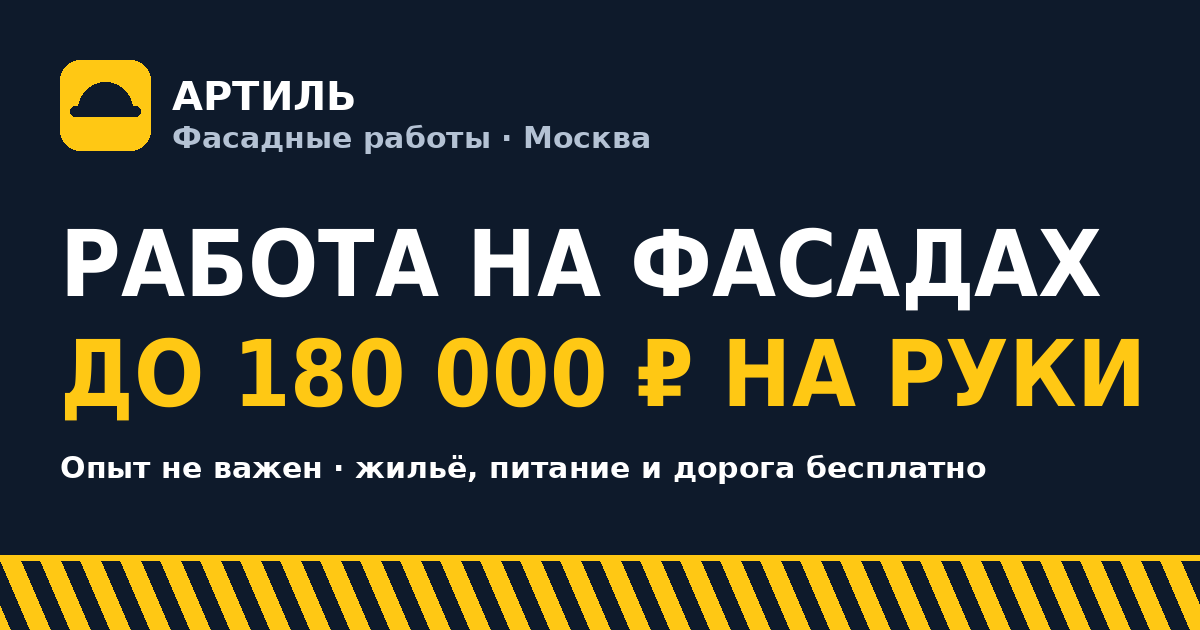
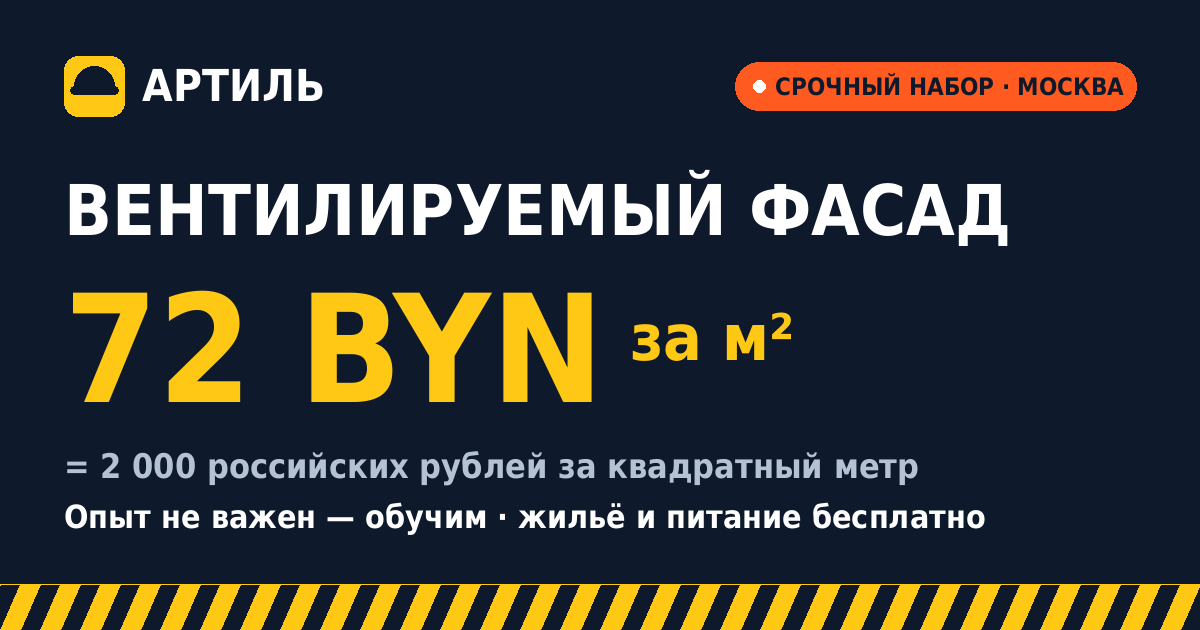
Add files via upload

diff --git a/index.html b/index.html
@@ -9,9 +9,9 @@
 <meta property="og:image" content="og.png">
 <meta property="og:locale" content="ru_RU">
 <title>АртИль — работа на фасадах</title>
-<meta name="description" content="АртИль набирает монтажников вентилируемого фасада, фасадчиков, монтажников лоджий, штукатуров и разнорабочих в Москве. До 180 000 ₽ на руки, опыт не важен, проживание, питание и дорога за счёт компании.">
+<meta name="description" content="АртИль срочно набирает монтажников вентилируемого фасада в Москве: 72 белорусских рубля (2 000 российских) за квадратный метр. Также фасадчики, лоджии, штукатуры, разнорабочие. Опыт не важен, проживание, питание и дорога за счёт компании.">
 <meta name="theme-color" content="#0E1A2B">
-<meta property="og:title" content="Фасадные работы в Москве — до 180 000 ₽ на руки">
+<meta property="og:title" content="Вентилируемый фасад в Москве — 72 BYN за квадратный метр">
 <meta property="og:description" content="Опыт не важен — обучим · проживание и питание бесплатно · дорогу оплачиваем · аванс по запросу">
 <link rel="preconnect" href="https://fonts.googleapis.com">
 <link rel="preconnect" href="https://fonts.gstatic.com" crossorigin>
@@ -86,6 +86,7 @@ section{padding-block:56px}
 @keyframes pulse{50%{opacity:.2;transform:scale(.7)}}
 .hero h1{font-size:clamp(46px,13.6vw,88px);text-transform:uppercase;line-height:.9}
 .hero h1 .y{color:var(--signal);display:block}
+@media (max-width:359px){.btn{font-size:15px;gap:8px;padding:0 12px}.cta-row .btn{padding:0 8px}.btn svg{width:20px;height:20px}.form-actions .btn{white-space:normal;text-align:center;line-height:1.2;padding-block:8px}}
 .money{display:flex;flex-direction:column;gap:2px}
 .money b{font-family:var(--f-display);font-size:clamp(44px,12.5vw,72px);line-height:1;color:var(--signal);font-variant-numeric:tabular-nums;text-shadow:0 0 28px rgba(255,200,20,.35)}
 .money small{font-size:15px;color:var(--muted);font-weight:600}
@@ -110,6 +111,8 @@ section{padding-block:56px}
 @media (max-width:420px){.sticker{width:100px;height:100px}.sticker b{font-size:20px}.sticker small{font-size:11px}}
 @keyframes float{0%,100%{transform:translateY(0) rotate(var(--rot))}50%{transform:translateY(-10px) rotate(var(--rot))}}
 @media (min-width:901px){.sticker{width:140px;height:140px}.sticker b{font-size:30px}.sticker small{font-size:14px}}
+.st-1 b{font-size:18px;white-space:nowrap}
+@media (min-width:901px){.st-1 b{font-size:24px}}
 
 /* tape */
 .tape{position:relative;z-index:2;background:#0B0F17;transform:rotate(-2deg);margin:14px -24px 0;box-shadow:0 12px 26px rgba(0,0,0,.35);overflow:hidden}
@@ -162,6 +165,16 @@ legend{font-weight:700;font-size:15px;margin-bottom:10px;padding:0}
 .calc-out .lbl2{font-family:var(--f-display);font-weight:600;letter-spacing:.12em;font-size:14px;text-transform:uppercase}
 .calc-sum{font-family:var(--f-display);font-weight:700;font-size:clamp(46px,13vw,76px);line-height:1;font-variant-numeric:tabular-nums}
 .calc-note{font-size:14px;font-weight:600;color:var(--ink-2)}
+.range-row{display:flex;align-items:center;gap:14px}
+.range-row output{font-family:var(--f-display);font-weight:700;font-size:28px;color:var(--signal);min-width:78px;text-align:right;font-variant-numeric:tabular-nums}
+.range{-webkit-appearance:none;appearance:none;flex:1;min-width:0;height:44px;background:transparent;cursor:pointer;touch-action:pan-y}
+.range::-webkit-slider-runnable-track{height:10px;border-radius:999px;background:linear-gradient(90deg,var(--signal) var(--p,22%),var(--night-3) var(--p,22%));border:1px solid var(--line)}
+.range::-moz-range-track{height:10px;border-radius:999px;background:var(--night-3);border:1px solid var(--line)}
+.range::-moz-range-progress{height:10px;border-radius:999px;background:var(--signal)}
+.range::-webkit-slider-thumb{-webkit-appearance:none;width:32px;height:32px;margin-top:-12px;border-radius:50%;background:var(--signal);border:4px solid var(--ink);box-shadow:0 0 0 2px var(--signal),0 6px 14px rgba(0,0,0,.4)}
+.range::-moz-range-thumb{width:24px;height:24px;border-radius:50%;background:var(--signal);border:4px solid var(--ink);box-shadow:0 0 0 2px var(--signal)}
+.range:focus-visible{outline:3px solid var(--signal);outline-offset:4px;border-radius:12px}
+.vac-pay .rub{display:block;margin-top:6px;font-family:var(--f-body);font-size:15px;font-weight:800;color:var(--ink)}
 .calc-out .btn{align-self:stretch;background:var(--ink);color:var(--signal);margin-top:6px}
 @media (min-width:801px){.calc-out .btn{align-self:flex-start}}
 
@@ -293,8 +306,8 @@ footer{padding-block:28px 24px}
     <div class="wrap hero-grid">
       <div class="hero-copy">
         <span class="urgent"><i></i>СРОЧНЫЙ НАБОР · МОСКВА</span>
-        <h1>Работа на фасадах <span class="y">в Москве</span></h1>
-        <div class="money"><b data-count="180000" data-prefix="до " data-suffix=" ₽">до 180 000 ₽</b><small>в месяц на руки · разнорабочим 4 000 ₽ в день</small></div>
+        <h1>Вентилируемый фасад <span class="y">в Москве</span></h1>
+        <div class="money"><b data-count="72" data-suffix=" BYN за м²">72 BYN за м²</b><small>это 2 000 российских рублей за квадратный метр · другие профессии — от 5 000 BYN в месяц</small></div>
         <div class="chips">
           <span class="chip"><svg viewBox="0 0 24 24" fill="none" stroke="currentColor" stroke-width="2.4" stroke-linecap="round" stroke-linejoin="round" aria-hidden="true"><path d="M5 12.5l4.5 4.5L19 7.5"/></svg>Опыт не важен — обучим</span>
           <span class="chip"><svg viewBox="0 0 24 24" fill="none" stroke="currentColor" stroke-width="2.4" stroke-linecap="round" stroke-linejoin="round" aria-hidden="true"><path d="M5 12.5l4.5 4.5L19 7.5"/></svg>Жильё и питание бесплатно</span>
@@ -308,11 +321,11 @@ footer{padding-block:28px 24px}
       </div>
       <div class="hero-art">
         <img src="scene.svg" width="1080" height="610" alt="Дом в разрезе: фасадчики в люльке монтируют вентилируемый фасад, внутри по этажам идут отделочные работы" fetchpriority="high">
-        <div class="sticker st-1" aria-hidden="true"><small>ПРИВЕДИ<br>ДРУГА</small><b>+5 000 ₽</b><em>за каждого</em></div>
+        <div class="sticker st-1" aria-hidden="true"><small>ПРИВЕДИ<br>ДРУГА</small><b>+180 BYN</b><em>за каждого</em></div>
         <div class="sticker st-2" aria-hidden="true"><small>ОПЫТ<br>НЕ ВАЖЕН</small><b>ОБУЧИМ</b></div>
       </div>
     </div>
-    <div class="tape" aria-hidden="true"><div class="tape-track" id="tape"><div class="tape-group"><span>ОПЫТ НЕ ВАЖЕН — ОБУЧИМ</span><span>ПРОЖИВАНИЕ БЕСПЛАТНО</span><span>ТРЁХРАЗОВОЕ ПИТАНИЕ</span><span>ДОРОГУ ОПЛАЧИВАЕМ</span><span>АВАНС ПО ЗАПРОСУ</span><span>ПРИВЕДИ ДРУГА — 5 000 ₽</span></div><div class="tape-group"><span>ОПЫТ НЕ ВАЖЕН — ОБУЧИМ</span><span>ПРОЖИВАНИЕ БЕСПЛАТНО</span><span>ТРЁХРАЗОВОЕ ПИТАНИЕ</span><span>ДОРОГУ ОПЛАЧИВАЕМ</span><span>АВАНС ПО ЗАПРОСУ</span><span>ПРИВЕДИ ДРУГА — 5 000 ₽</span></div></div></div>
+    <div class="tape" aria-hidden="true"><div class="tape-track" id="tape"><div class="tape-group"><span>ОПЫТ НЕ ВАЖЕН — ОБУЧИМ</span><span>ВЕНТИЛИРУЕМЫЙ ФАСАД — 72 BYN ЗА М²</span><span>ПРОЖИВАНИЕ БЕСПЛАТНО</span><span>ТРЁХРАЗОВОЕ ПИТАНИЕ</span><span>ДОРОГУ ОПЛАЧИВАЕМ</span><span>АВАНС ПО ЗАПРОСУ</span><span>ПРИВЕДИ ДРУГА — 180 BYN</span></div><div class="tape-group"><span>ОПЫТ НЕ ВАЖЕН — ОБУЧИМ</span><span>ВЕНТИЛИРУЕМЫЙ ФАСАД — 72 BYN ЗА М²</span><span>ПРОЖИВАНИЕ БЕСПЛАТНО</span><span>ТРЁХРАЗОВОЕ ПИТАНИЕ</span><span>ДОРОГУ ОПЛАЧИВАЕМ</span><span>АВАНС ПО ЗАПРОСУ</span><span>ПРИВЕДИ ДРУГА — 180 BYN</span></div></div></div>
   </section>
 
   <section id="vacancies">
@@ -320,41 +333,41 @@ footer{padding-block:28px 24px}
       <div class="sec-head rv">
         <span class="eyebrow">Кого ищем</span>
         <h2>Вакансии и зарплаты</h2>
-        <p class="lead">Суммы на руки. Листайте карточки →</p>
+        <p class="lead">Суммы на руки, в белорусских рублях. Листайте карточки →</p>
       </div>
       <div class="rail" id="rail">
         <article class="vac top-pay tilt">
-          <div class="vac-head"><span class="vac-ico"><svg viewBox="0 0 24 24" fill="none" stroke="#FFC814" stroke-width="2" stroke-linejoin="round" aria-hidden="true"><rect x="3" y="3" width="18" height="18"/><path d="M3 9h18M3 15h18M9 3v18M15 3v18"/></svg></span><span class="vac-tag">Топ ставка</span></div>
+          <div class="vac-head"><span class="vac-ico"><svg viewBox="0 0 24 24" fill="none" stroke="#FFC814" stroke-width="2" stroke-linejoin="round" aria-hidden="true"><rect x="3" y="3" width="18" height="18"/><path d="M3 9h18M3 15h18M9 3v18M15 3v18"/></svg></span><span class="vac-tag">Срочно</span></div>
           <h3>Монтажник вентилируемого фасада</h3>
-          <div class="vac-pay"><span data-rate="vent">от 180 000 ₽</span><small>в месяц на руки</small></div>
+          <div class="vac-pay"><span data-m2>72 BYN</span><small>за квадратный метр</small><span class="rub">= 2 000 российских рублей за м²</span></div>
           <ul><li>Монтаж металлической подсистемы</li><li>Утеплитель и ветрозащита</li><li>Монтаж фасадных панелей</li></ul>
           <a class="btn btn-wa" data-wa="Здравствуйте! ХОЧУ НА ВЕНТФАСАД. Опыт: " href="#apply">Откликнуться</a>
         </article>
         <article class="vac top-pay tilt">
           <div class="vac-head"><span class="vac-ico"><svg viewBox="0 0 24 24" fill="none" stroke="#FFC814" stroke-width="2" stroke-linejoin="round" aria-hidden="true"><path d="M4 4h16v16H4z"/><path d="M8 4v16M4 9h4M4 14h4M12 8h5M12 12h5M12 16h5"/></svg></span><span class="vac-tag">Топ ставка</span></div>
           <h3>Фасадчик на утепление</h3>
-          <div class="vac-pay"><span data-rate="uteplenie">от 180 000 ₽</span><small>в месяц на руки</small></div>
+          <div class="vac-pay"><span data-rate="uteplenie">от 6 400 BYN</span><small>в месяц на руки</small></div>
           <ul><li>Плиты минеральной ваты</li><li>Армирующий слой с сеткой</li><li>Декоративная штукатурка и покраска</li></ul>
           <a class="btn btn-wa" data-wa="Здравствуйте! ХОЧУ НА ФАСАД (утепление). Опыт: " href="#apply">Откликнуться</a>
         </article>
         <article class="vac tilt">
           <div class="vac-head"><span class="vac-ico"><svg viewBox="0 0 24 24" fill="none" stroke="#FFC814" stroke-width="2" stroke-linecap="round" stroke-linejoin="round" aria-hidden="true"><path d="M3 21V9h18v12"/><path d="M3 15h18"/><path d="M7 15v6M12 15v6M17 15v6"/><path d="M6 9V5h12v4"/></svg></span></div>
           <h3>Монтажник фасада лоджий</h3>
-          <div class="vac-pay"><span data-rate="lodzhii">от 160 000 ₽</span><small>в месяц на руки</small></div>
+          <div class="vac-pay"><span data-rate="lodzhii">от 5 700 BYN</span><small>в месяц на руки</small></div>
           <ul><li>Металлический каркас стены лоджии — без сварки</li><li>Потолки: бетоноконтакт, шпаклёвка, фасадная краска</li></ul>
           <a class="btn btn-wa" data-wa="Здравствуйте! ХОЧУ НА ЛОДЖИИ. Опыт: " href="#apply">Откликнуться</a>
         </article>
         <article class="vac tilt">
           <div class="vac-head"><span class="vac-ico"><svg viewBox="0 0 24 24" fill="none" stroke="#FFC814" stroke-width="2" stroke-linecap="round" stroke-linejoin="round" aria-hidden="true"><path d="M4 15l9-9 5 5-9 9H4z"/><path d="M13 6l2-2 5 5-2 2"/></svg></span></div>
           <h3>Штукатур</h3>
-          <div class="vac-pay"><span data-rate="shtuk">от 140 000 ₽</span><small>в месяц на руки</small></div>
+          <div class="vac-pay"><span data-rate="shtuk">от 5 000 BYN</span><small>в месяц на руки</small></div>
           <ul><li>Машинная и ручная штукатурка</li><li>Ровные плоскости по маякам</li></ul>
           <a class="btn btn-wa" data-wa="Здравствуйте! ХОЧУ ШТУКАТУРОМ. Опыт: " href="#apply">Откликнуться</a>
         </article>
         <article class="vac tilt">
           <div class="vac-head"><span class="vac-ico"><svg viewBox="0 0 24 24" fill="none" stroke="#FFC814" stroke-width="2" stroke-linecap="round" stroke-linejoin="round" aria-hidden="true"><path d="M3 20h18"/><path d="M6 20V10l6-6 6 6v10"/><path d="M10 20v-5h4v5"/></svg></span><span class="vac-tag" style="background:var(--signal);color:var(--ink)">Без опыта</span></div>
           <h3>Разнорабочий</h3>
-          <div class="vac-pay"><span data-daily>4 000 ₽</span><small>в день · 120 000 ₽ за 30 рабочих дней</small></div>
+          <div class="vac-pay"><span data-daily>140 BYN</span><small data-daily30>в день · 4 200 BYN за 30 рабочих дней</small></div>
           <ul><li>Подсобные работы, подача материала</li><li>Можно вырасти до мастера</li></ul>
           <a class="btn btn-wa" data-wa="Здравствуйте! ХОЧУ РАЗНОРАБОЧИМ." href="#apply">Откликнуться</a>
         </article>
@@ -395,10 +408,18 @@ footer{padding-block:28px 24px}
             </div>
             <p class="calc-hint">Вахты 60/20, 30/15, 15/8 · москвичам 5–6 дней в неделю</p>
           </fieldset>
+          <fieldset id="m2-box">
+            <legend>Сколько квадратных метров в смену</legend>
+            <div class="range-row">
+              <input class="range" type="range" id="m2" min="1" max="10" step="1" value="3" aria-describedby="m2-out">
+              <output id="m2-out" for="m2">3 м²</output>
+            </div>
+            <p class="calc-hint">Оплата за каждый смонтированный квадратный метр: 72 BYN (2 000 российских рублей)</p>
+          </fieldset>
         </div>
         <div class="calc-out" aria-live="polite">
           <span class="lbl2">Вы получите на руки</span>
-          <span class="calc-sum" id="calc-sum">от 360 000 ₽</span>
+          <span class="calc-sum" id="calc-sum">12 960 BYN</span>
           <p class="calc-note" id="calc-note">За 60 рабочих дней. Жильё, питание и дорога — за счёт компании, эти деньги остаются у вас.</p>
           <a class="btn" id="calc-cta" href="#apply">Хочу на эту вахту</a>
         </div>
@@ -422,10 +443,10 @@ footer{padding-block:28px 24px}
         <div class="phone-wrap">
           <div class="phone" role="img" aria-label="Пример экрана приложения: заработок за месяц, смены, аванс и бонус за друга">
             <div class="screen">
-              <div class="scr-top"><small>Привет, Алексей · октябрь</small><span style="font-size:12px;font-weight:600">Заработано на руки</span><span class="sum">142 800 ₽</span><div class="bar"><i></i></div><small style="margin-top:6px">22 из 30 смен вахты</small></div>
+              <div class="scr-top"><small>Привет, Алексей · октябрь</small><span style="font-size:12px;font-weight:600">Заработано на руки</span><span class="sum">5 150 BYN</span><div class="bar"><i></i></div><small style="margin-top:6px">22 из 30 смен вахты</small></div>
               <div class="scr-row"><span>Отработано</span><b>22 смены · 220 ч</b></div>
-              <div class="scr-row"><span>Аванс 12 октября</span><b>−20 000 ₽</b></div>
-              <div class="scr-row"><span>Бонус за друга</span><b class="pos">+5 000 ₽</b></div>
+              <div class="scr-row"><span>Аванс 12 октября</span><b>−700 BYN</b></div>
+              <div class="scr-row"><span>Бонус за друга</span><b class="pos">+180 BYN</b></div>
                             <div class="scr-btn">Запросить аванс</div>
             </div>
           </div>
@@ -441,7 +462,7 @@ footer{padding-block:28px 24px}
         <span class="eyebrow">Что мы даём</span>
         <h2>Условия</h2>
       </div>
-      <div class="tiles"><div class="tile"><span class="t-ico"><svg viewBox="0 0 24 24" fill="none" stroke="#0E1A2B" stroke-width="2" stroke-linecap="round" stroke-linejoin="round" aria-hidden="true"><path d="M2 9l10-5 10 5-10 5z"/><path d="M6 11v5c0 1.5 3 3 6 3s6-1.5 6-3v-5"/></svg></span><b>Обучим с нуля</b><span>и удостоверение</span></div><div class="tile"><span class="t-ico"><svg viewBox="0 0 24 24" fill="none" stroke="#0E1A2B" stroke-width="2" stroke-linecap="round" stroke-linejoin="round" aria-hidden="true"><path d="M3 11l9-7 9 7"/><path d="M5 10v10h14V10"/><path d="M10 20v-6h4v6"/></svg></span><b>Проживание</b><span>бесплатно</span></div><div class="tile"><span class="t-ico"><svg viewBox="0 0 24 24" fill="none" stroke="#0E1A2B" stroke-width="2" stroke-linecap="round" stroke-linejoin="round" aria-hidden="true"><path d="M4 3v8a3 3 0 0 0 6 0V3"/><path d="M7 3v18"/><path d="M17 3c-2 0-3 3-3 6s1 4 3 4v8"/></svg></span><b>Питание</b><span>3 раза в день</span></div><div class="tile"><span class="t-ico"><svg viewBox="0 0 24 24" fill="none" stroke="#0E1A2B" stroke-width="2" stroke-linecap="round" stroke-linejoin="round" aria-hidden="true"><path d="M3 7h18v3a2 2 0 0 0 0 4v3H3v-3a2 2 0 0 0 0-4z"/><path d="M14 7v2M14 11v2M14 15v2"/></svg></span><b>Дорога</b><span>за наш счёт</span></div><div class="tile"><span class="t-ico"><svg viewBox="0 0 24 24" fill="none" stroke="#0E1A2B" stroke-width="2" stroke-linecap="round" stroke-linejoin="round" aria-hidden="true"><path d="M8 3l4 2 4-2 4 4-3 3v11H7V10L4 7z"/></svg></span><b>Спецодежда</b><span>выдаём</span></div><div class="tile"><span class="t-ico"><svg viewBox="0 0 24 24" fill="none" stroke="#0E1A2B" stroke-width="2" stroke-linecap="round" stroke-linejoin="round" aria-hidden="true"><rect x="2" y="6" width="20" height="13" rx="2"/><circle cx="12" cy="12.5" r="3"/></svg></span><b>Аванс</b><span>по запросу</span></div><div class="tile"><span class="t-ico"><svg viewBox="0 0 24 24" fill="none" stroke="#0E1A2B" stroke-width="2" stroke-linecap="round" stroke-linejoin="round" aria-hidden="true"><rect x="3" y="4" width="18" height="17" rx="2"/><path d="M3 9h18M8 2v4M16 2v4"/></svg></span><b>Вахта</b><span>60/20 · 30/15 · 15/8</span></div><div class="tile"><span class="t-ico"><svg viewBox="0 0 24 24" fill="none" stroke="#0E1A2B" stroke-width="2" stroke-linecap="round" stroke-linejoin="round" aria-hidden="true"><circle cx="9" cy="8" r="3"/><path d="M3 20c0-3.3 2.7-6 6-6s6 2.7 6 6"/><path d="M16 11h6M19 8v6"/></svg></span><b>+5 000 ₽</b><span>за друга</span></div></div>
+      <div class="tiles"><div class="tile"><span class="t-ico"><svg viewBox="0 0 24 24" fill="none" stroke="#0E1A2B" stroke-width="2" stroke-linecap="round" stroke-linejoin="round" aria-hidden="true"><path d="M2 9l10-5 10 5-10 5z"/><path d="M6 11v5c0 1.5 3 3 6 3s6-1.5 6-3v-5"/></svg></span><b>Обучим с нуля</b><span>и удостоверение</span></div><div class="tile"><span class="t-ico"><svg viewBox="0 0 24 24" fill="none" stroke="#0E1A2B" stroke-width="2" stroke-linecap="round" stroke-linejoin="round" aria-hidden="true"><path d="M3 11l9-7 9 7"/><path d="M5 10v10h14V10"/><path d="M10 20v-6h4v6"/></svg></span><b>Проживание</b><span>бесплатно, в вагончиках</span></div><div class="tile"><span class="t-ico"><svg viewBox="0 0 24 24" fill="none" stroke="#0E1A2B" stroke-width="2" stroke-linecap="round" stroke-linejoin="round" aria-hidden="true"><path d="M4 3v8a3 3 0 0 0 6 0V3"/><path d="M7 3v18"/><path d="M17 3c-2 0-3 3-3 6s1 4 3 4v8"/></svg></span><b>Питание</b><span>3 раза в день</span></div><div class="tile"><span class="t-ico"><svg viewBox="0 0 24 24" fill="none" stroke="#0E1A2B" stroke-width="2" stroke-linecap="round" stroke-linejoin="round" aria-hidden="true"><path d="M3 7h18v3a2 2 0 0 0 0 4v3H3v-3a2 2 0 0 0 0-4z"/><path d="M14 7v2M14 11v2M14 15v2"/></svg></span><b>Дорога</b><span>за наш счёт</span></div><div class="tile"><span class="t-ico"><svg viewBox="0 0 24 24" fill="none" stroke="#0E1A2B" stroke-width="2" stroke-linecap="round" stroke-linejoin="round" aria-hidden="true"><path d="M8 3l4 2 4-2 4 4-3 3v11H7V10L4 7z"/></svg></span><b>Спецодежда</b><span>выдаём</span></div><div class="tile"><span class="t-ico"><svg viewBox="0 0 24 24" fill="none" stroke="#0E1A2B" stroke-width="2" stroke-linecap="round" stroke-linejoin="round" aria-hidden="true"><rect x="2" y="6" width="20" height="13" rx="2"/><circle cx="12" cy="12.5" r="3"/></svg></span><b>Аванс</b><span>по запросу</span></div><div class="tile"><span class="t-ico"><svg viewBox="0 0 24 24" fill="none" stroke="#0E1A2B" stroke-width="2" stroke-linecap="round" stroke-linejoin="round" aria-hidden="true"><rect x="3" y="4" width="18" height="17" rx="2"/><path d="M3 9h18M8 2v4M16 2v4"/></svg></span><b>Вахта</b><span>60/20 · 30/15 · 15/8</span></div><div class="tile"><span class="t-ico"><svg viewBox="0 0 24 24" fill="none" stroke="#0E1A2B" stroke-width="2" stroke-linecap="round" stroke-linejoin="round" aria-hidden="true"><circle cx="9" cy="8" r="3"/><path d="M3 20c0-3.3 2.7-6 6-6s6 2.7 6 6"/><path d="M16 11h6M19 8v6"/></svg></span><b>+180 BYN</b><span>за друга</span></div></div>
     </div>
   </section>
 
@@ -503,11 +524,12 @@ footer{padding-block:28px 24px}
         <h2>Ответы до переписки</h2>
       </div>
       <div class="faq">
-        <details><summary>Нужен ли опыт?</summary><p>Нет. Обучим прямо на объекте и поможем получить удостоверение по профессии. Без опыта можно начать разнорабочим — 4 000 рублей в день — и вырасти до мастера.</p></details>
+        <details><summary>Нужен ли опыт?</summary><p>Нет. Обучим прямо на объекте и поможем получить удостоверение по профессии. Без опыта можно начать разнорабочим — 140 белорусских рублей в день — и вырасти до мастера.</p></details>
         <details><summary>Как получить аванс?</summary><p>Аванс выдаём по вашему запросу. Каждый аванс сразу виден в приложении вместе с заработком и бонусами.</p></details>
-        <details><summary>Где жить на вахте?</summary><p>Проживание бесплатное, за счёт компании. Перед выездом пришлём фото жилья.</p></details>
+        <details><summary>Где жить на вахте?</summary><p>Бесплатно, в вагончиках, за счёт компании. Перед выездом пришлём фото.</p></details>
         <details><summary>Кто платит за дорогу?</summary><p>Компания. Дорогу до объекта оплачиваем, спецодежду выдаём.</p></details>
         <details><summary>Какие нужны документы?</summary><p>Паспорт, СНИЛС и ИНН. Иностранным гражданам — документы на право работы в России; список уточните у Евгении.</p></details>
+        <details><summary>В какой валюте указаны суммы?</summary><p>Все суммы на сайте — в белорусских рублях, на руки. Монтаж вентилируемого фасада — 72 белорусских рубля за квадратный метр, это 2 000 российских рублей.</p></details>
         <details><summary>Почему нельзя позвонить?</summary><p>Мы отвечаем только в WhatsApp и Telegram — так быстрее и ничего не теряется. Можно отправлять голосовые сообщения.</p></details>
       </div>
     </div>
@@ -534,8 +556,12 @@ const CONFIG = {
   wa:      '201042724906',        // номер WhatsApp только цифрами, с кодом страны
   waText:  '+20 104 272 4906',
   tgNick:  'kocurevgenia',        // ник в Telegram без @
-  rates: { vent: 180000, uteplenie: 180000, lodzhii: 160000, shtuk: 140000 }, // ₽ в месяц на руки
-  daily: 4000                     // ₽ в день, разнорабочий
+  cur:     'BYN',                 // валюта на сайте
+  m2:      72,                    // вентилируемый фасад: BYN за квадратный метр (= 2 000 российских рублей)
+  m2Default: 3,                   // калькулятор: квадратных метров в смену по умолчанию
+  rates: { uteplenie: 6400, lodzhii: 5700, shtuk: 5000 }, // BYN в месяц на руки
+  daily: 140,                     // BYN в день, разнорабочий
+  friend: 180                     // BYN за приведённого друга
 };
 /* ========================================================================== */
 
@@ -543,7 +569,7 @@ const CONFIG = {
   'use strict';
   const reduced = window.matchMedia && matchMedia('(prefers-reduced-motion: reduce)').matches;
   const num = n => Math.round(n).toLocaleString('ru-RU').replace(/[  ,]/g, ' ');
-  const money = n => num(n) + ' ₽';
+  const money = n => num(n) + ' ' + CONFIG.cur;
   const waLink = text => 'https://wa.me/' + CONFIG.wa + '?text=' + encodeURIComponent(text);
   const tgLink = () => 'https://t.me/' + CONFIG.tgNick;
   const ext = a => { a.target = '_blank'; a.rel = 'noopener'; };
@@ -558,6 +584,8 @@ const CONFIG = {
   });
   $$('[data-rate]').forEach(el => { el.textContent = 'от ' + money(CONFIG.rates[el.dataset.rate]); });
   $$('[data-daily]').forEach(el => { el.textContent = money(CONFIG.daily); });
+  $$('[data-daily30]').forEach(el => { el.textContent = 'в день · ' + money(CONFIG.daily * 30) + ' за 30 рабочих дней'; });
+  $$('[data-m2]').forEach(el => { el.textContent = money(CONFIG.m2); });
   $$('[data-wa]').forEach(a => { a.href = waLink(a.dataset.wa); ext(a); });
   $$('[data-tg]').forEach(a => { a.href = tgLink(); ext(a); });
 
@@ -574,6 +602,17 @@ const CONFIG = {
   }
   addEventListener('scroll', onScroll, { passive: true }); onScroll();
 
+
+  /* заголовок: уменьшаем шрифт, пока самое длинное слово не влезет в ширину экрана */
+  const h1 = $('.hero h1');
+  function fitH1() {
+    if (!h1) return; h1.style.fontSize = '';
+    let fs = parseFloat(getComputedStyle(h1).fontSize), i = 0;
+    while (h1.scrollWidth > h1.clientWidth + 1 && fs > 24 && i++ < 60) { fs -= 1; h1.style.fontSize = fs + 'px'; }
+  }
+  fitH1();
+  if (document.fonts && document.fonts.ready) document.fonts.ready.then(fitH1);
+  addEventListener('resize', fitH1, { passive: true });
 
   /* лента: постоянная скорость, бесшовный повтор */
   const tape = $('#tape');
@@ -637,7 +676,9 @@ const CONFIG = {
   /* калькулятор */
   const profWord = { vent: 'НА ВЕНТФАСАД', uteplenie: 'НА ФАСАД (утепление)', lodzhii: 'НА ЛОДЖИИ', shtuk: 'ШТУКАТУРОМ', daily: 'РАЗНОРАБОЧИМ' };
   const sumEl = $('#calc-sum');
-  let shown = 360000, anim = 0;
+  let shown = 0, anim = 0;
+  const m2 = $('#m2'), m2Out = $('#m2-out'), m2Box = $('#m2-box');
+  if (m2) m2.value = CONFIG.m2Default;
   function animateSum(to, pre) {
     cancelAnimationFrame(anim);
     if (reduced) { shown = to; sumEl.textContent = pre + money(to); return; }
@@ -650,12 +691,17 @@ const CONFIG = {
   }
   function calc() {
     const p = $('input[name=cp]:checked').value, d = +$('input[name=cd]:checked').value;
-    const sum = p === 'daily' ? CONFIG.daily * d : CONFIG.rates[p] * d / 30;
-    animateSum(sum, p === 'daily' ? '' : 'от ');
-    $('#calc-note').textContent = 'За ' + d + ' рабочих дней. Жильё, питание и дорога — за счёт компании, эти деньги остаются у вас.';
+    const isVent = p === 'vent', q = +m2.value;
+    m2Box.hidden = !isVent;
+    m2Out.textContent = q + ' м²';
+    m2.style.setProperty('--p', ((q - m2.min) / (m2.max - m2.min) * 100) + '%');
+    const sum = isVent ? CONFIG.m2 * q * d : p === 'daily' ? CONFIG.daily * d : CONFIG.rates[p] * d / 30;
+    animateSum(sum, (isVent || p === 'daily') ? '' : 'от ');
+    $('#calc-note').textContent = (isVent ? q + ' м² в смену × ' + d + ' смен × ' + money(CONFIG.m2) + '. ' : 'За ' + d + ' рабочих дней. ') + 'Жильё, питание и дорога — за счёт компании, эти деньги остаются у вас.';
     const cta = $('#calc-cta'); cta.href = waLink('Здравствуйте! ХОЧУ ' + profWord[p] + ', вахта ' + d + ' дней. Опыт: '); ext(cta);
   }
   $$('input[name=cp], input[name=cd]').forEach(i => i.addEventListener('change', calc));
+  m2.addEventListener('input', calc);
   calc();
 
   /* анкета → WhatsApp */
